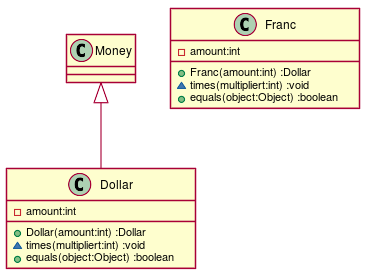
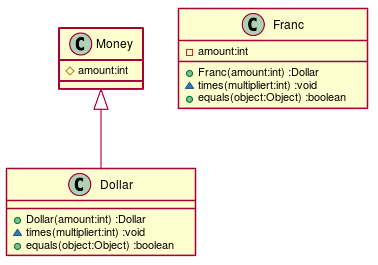
第６章 テスト不足に気づいたら Step4

Changed region(s): [[0.0, 0.0906, 0.5351, 0.9962], [0.4459, 0.0, 0.9811, 0.4226]]

diff --git a/src/main/java/tdd/money/Dollar.java b/src/main/java/tdd/money/Dollar.java
@@ -1,7 +1,6 @@
 package tdd.money;
 
 class Dollar extends Money {
-    private int amount;
     Dollar(int amount){
         this.amount = amount;
     }

diff --git a/src/main/java/tdd/money/Money.java b/src/main/java/tdd/money/Money.java
@@ -1,4 +1,5 @@
 package tdd.money;
 
 class Money {
+    protected int amount;
 }

diff --git a/docs/TDD.md b/docs/TDD.md
@@ -56,7 +56,7 @@
 ### クラス図
   
 
-![](./assets/0285dfa24ee25b18e00bb369b57da6820.png?0.08881628040083167)  
+![](./assets/0285dfa24ee25b18e00bb369b57da6820.png?0.738439829777128)  
 ### シーケンス図
   
   
@@ -96,7 +96,6 @@ public class MoneyTest {
 package tdd.money;
   
 class Dollar extends Money {
-    private int amount;
     Dollar(int amount){
         this.amount = amount;
     }
@@ -136,6 +135,7 @@ class Franc {
 package tdd.money;
   
 class Money {
+    protected int amount;
 }
   
 ```  

diff --git a/docs/src/TDD.md b/docs/src/TDD.md
@@ -58,7 +58,6 @@ markdown:
 ### クラス図
 ```puml
 class Dollar {
-  -amount:int
   +Dollar(amount:int) :Dollar
   ~times(multipliert:int) :void
   +equals(object:Object) :boolean
@@ -70,7 +69,7 @@ class Franc {
   +equals(object:Object) :boolean
 }
 class Money {
-
+  #amount:int
 }
 Money <|-- Dollar
 ```
